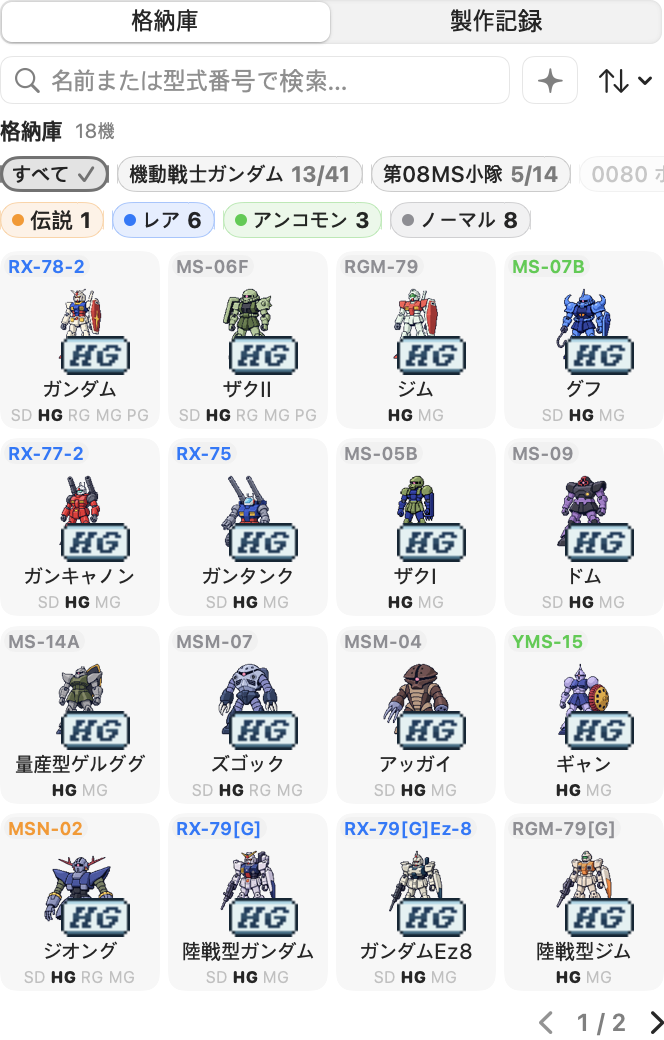
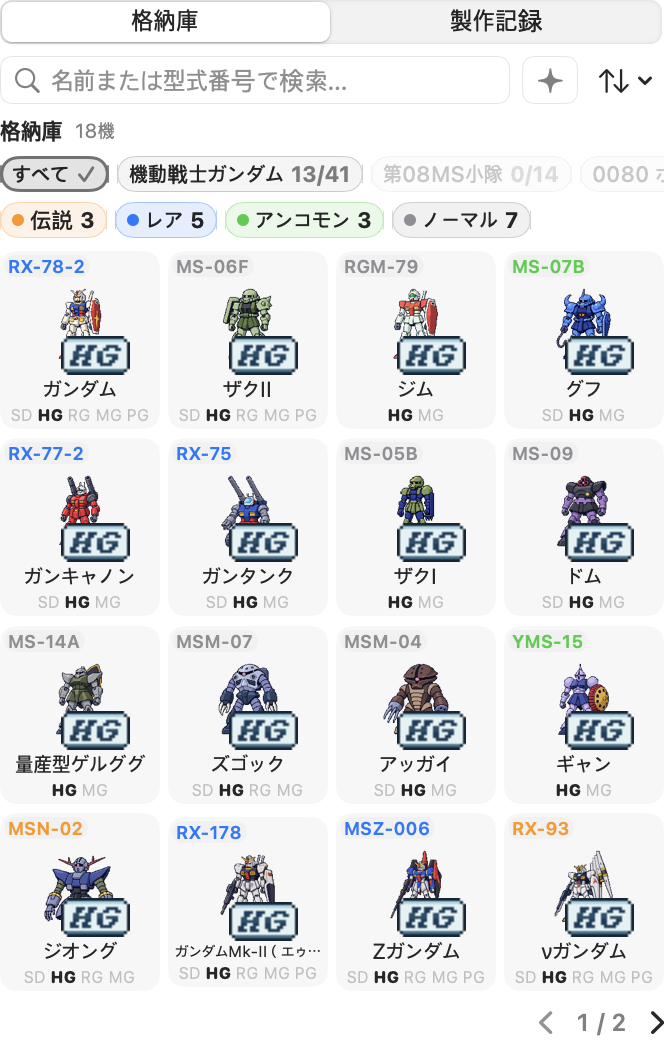
landing: show the seven-series hangar for 0.3.0

diff --git a/index.html b/index.html
@@ -57,7 +57,7 @@
   </div>
 
   <figure>
-    <img id="hangar" src="assets/hangar.png" alt="The hangar, listing mobile suits from four Universal Century series" data-i18n-alt="hangarAlt">
+    <img id="hangar" src="assets/hangar.png" alt="The hangar, listing mobile suits from seven Universal Century series" data-i18n-alt="hangarAlt">
   </figure>
 
   <ul>
@@ -81,7 +81,7 @@
       tagline: "Turn your AI coding tokens into Gunpla, right in your macOS menu bar.",
       download: "Download the latest release",
       github: "View on GitHub",
-      hangarAlt: "The hangar, listing mobile suits from four Universal Century series",
+      hangarAlt: "The hangar, listing mobile suits from seven Universal Century series",
       hangarImage: "assets/hangar.png",
       unbox: "<strong>Unbox:</strong> the tokens you spend in Claude Code, Codex, Gemini CLI and more open a Kit Box, and a mobile suit comes out.",
       grade: "<strong>Grade up:</strong> keep coding and the suit climbs through the kit grades actually released for it, SD to PG.",
@@ -95,7 +95,7 @@
       tagline: "AI 코딩 토큰을 macOS 메뉴바에서 건프라로 바꿔 보세요.",
       download: "최신 릴리스 내려받기",
       github: "GitHub에서 보기",
-      hangarAlt: "우주세기 네 작품의 기체가 늘어선 격납고 화면",
+      hangarAlt: "우주세기 일곱 작품의 기체가 늘어선 격납고 화면",
       hangarImage: "assets/hangar-ko.png",
       unbox: "<strong>개봉:</strong> Claude Code, Codex, Gemini CLI 등에서 쓴 토큰으로 건프라 박스가 열리고 기체가 나옵니다.",
       grade: "<strong>등급 업:</strong> 계속 코딩하면 그 기체로 실제 출시된 키트 등급을 따라 SD부터 PG까지 올라갑니다.",
@@ -109,7 +109,7 @@
       tagline: "AI コーディングのトークンを、macOS メニューバーでガンプラに変えよう。",
       download: "最新リリースをダウンロード",
       github: "GitHub で見る",
-      hangarAlt: "宇宙世紀 4 作品の機体が並ぶ格納庫の画面",
+      hangarAlt: "宇宙世紀 7 作品の機体が並ぶ格納庫の画面",
       hangarImage: "assets/hangar-ja.png",
       unbox: "<strong>開封:</strong> Claude Code・Codex・Gemini CLI などで使ったトークンでキットボックスが開き、機体が登場します。",
       grade: "<strong>グレードアップ:</strong> コーディングを続けると、その機体で実際に発売されたキットのグレードを SD から PG まで上がっていきます。",
